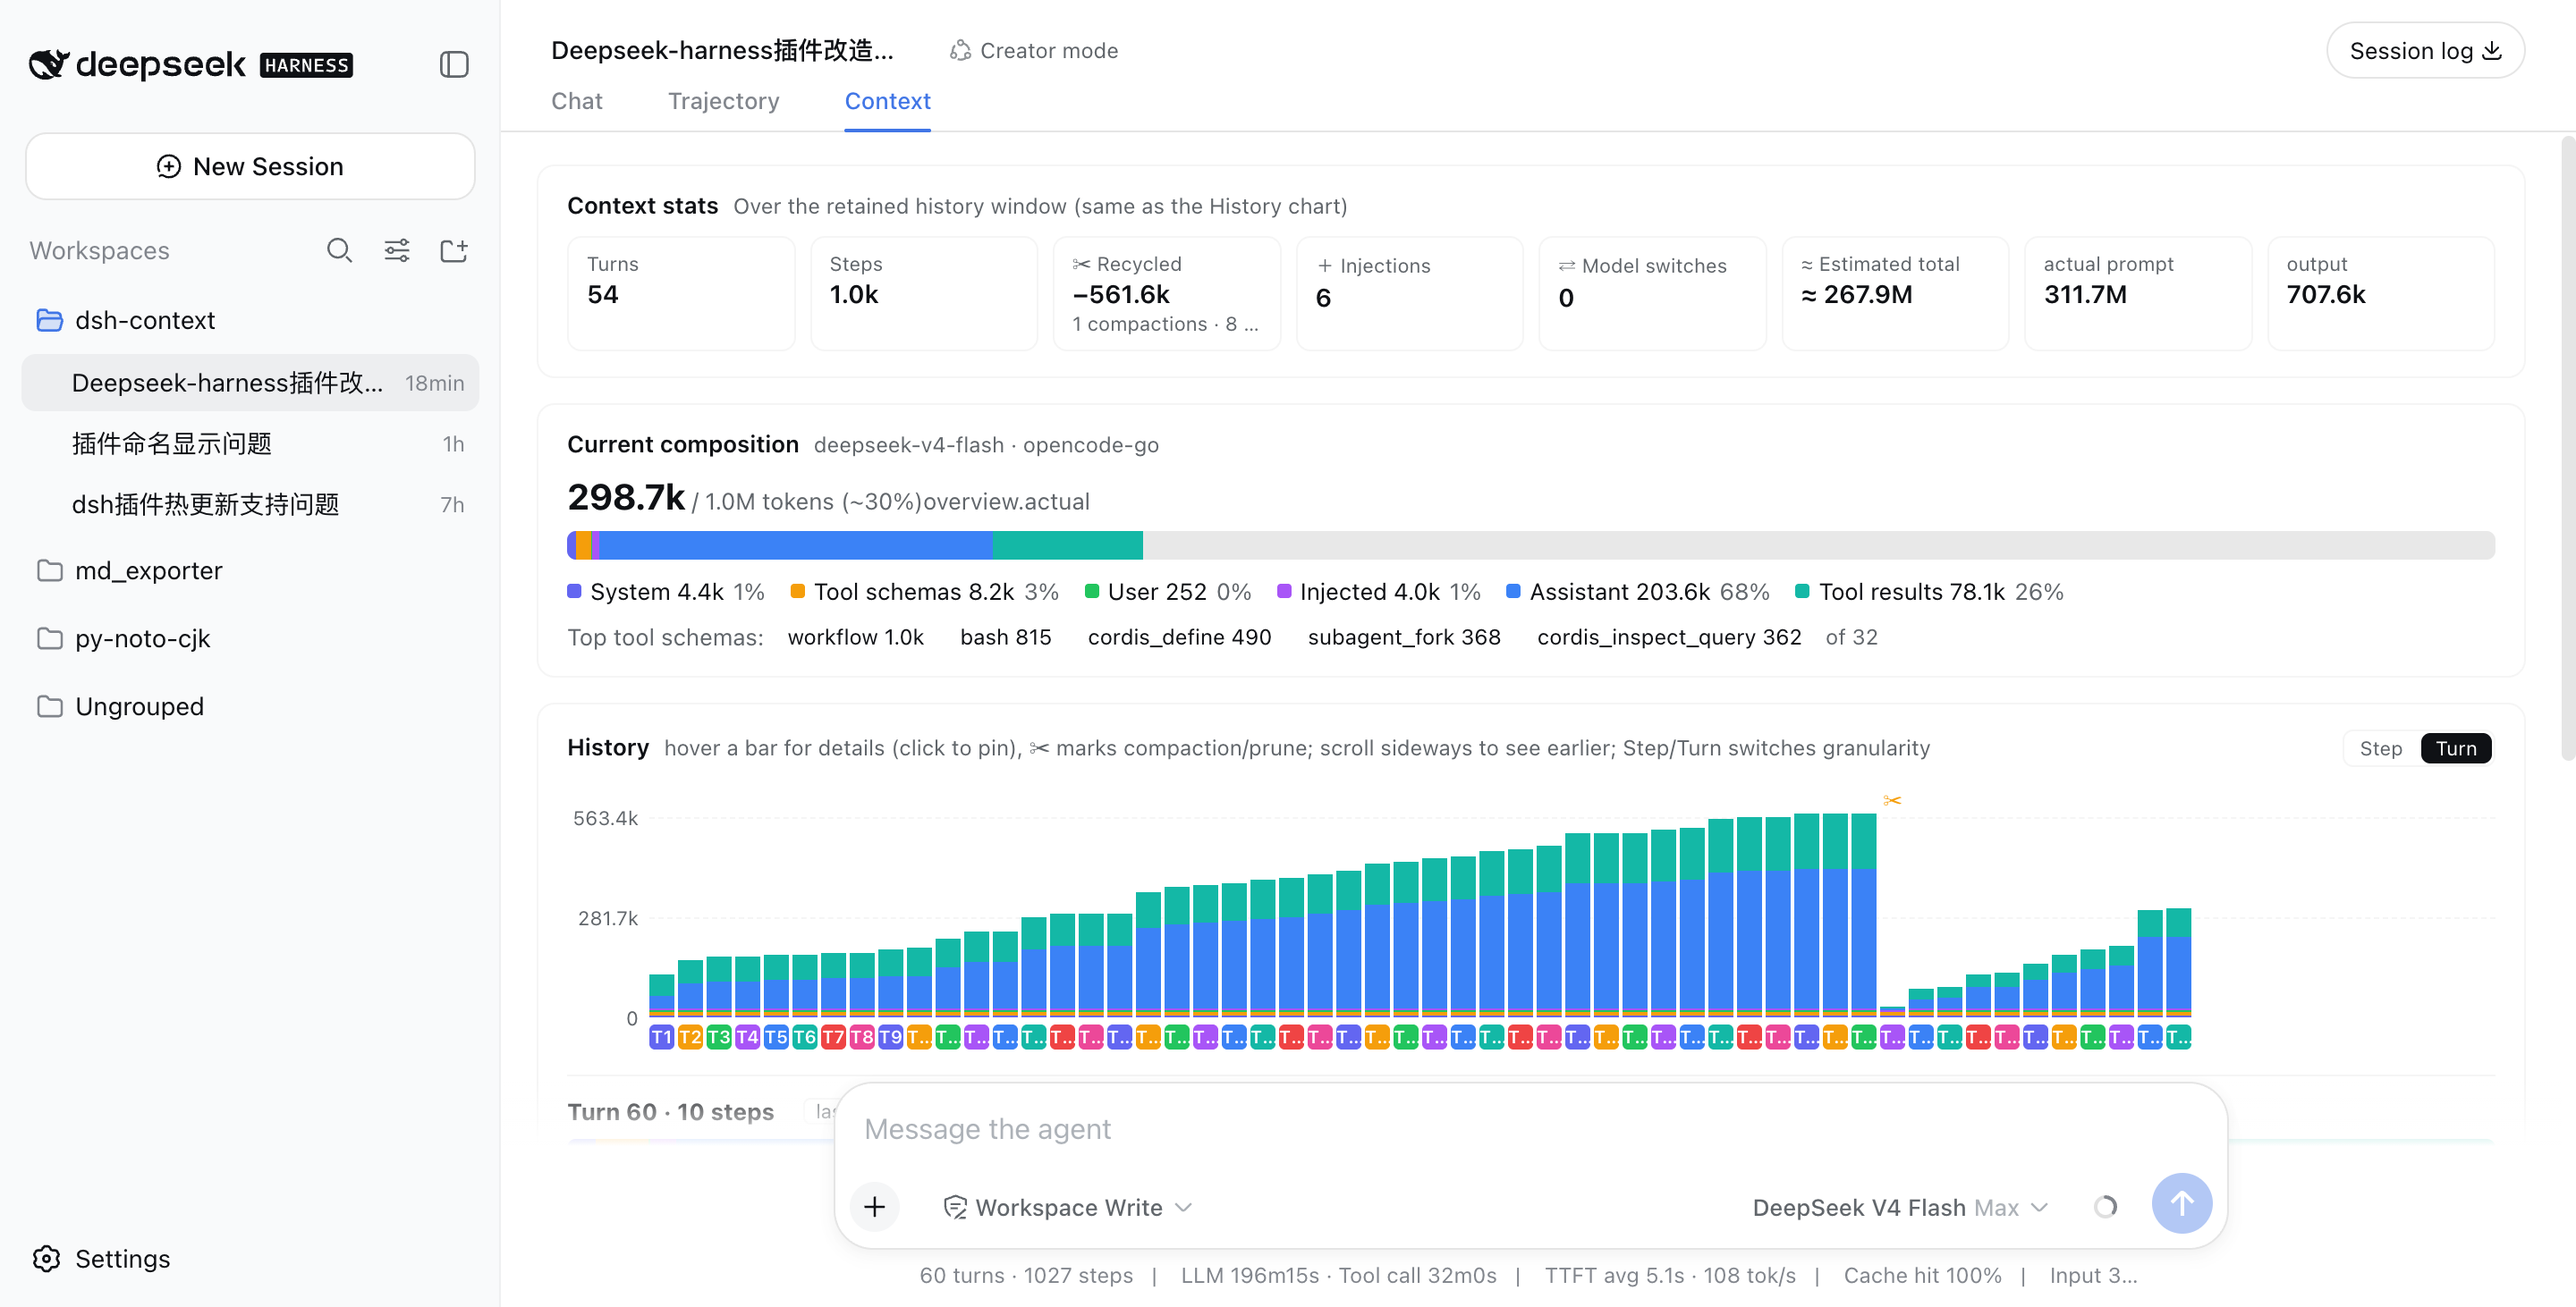
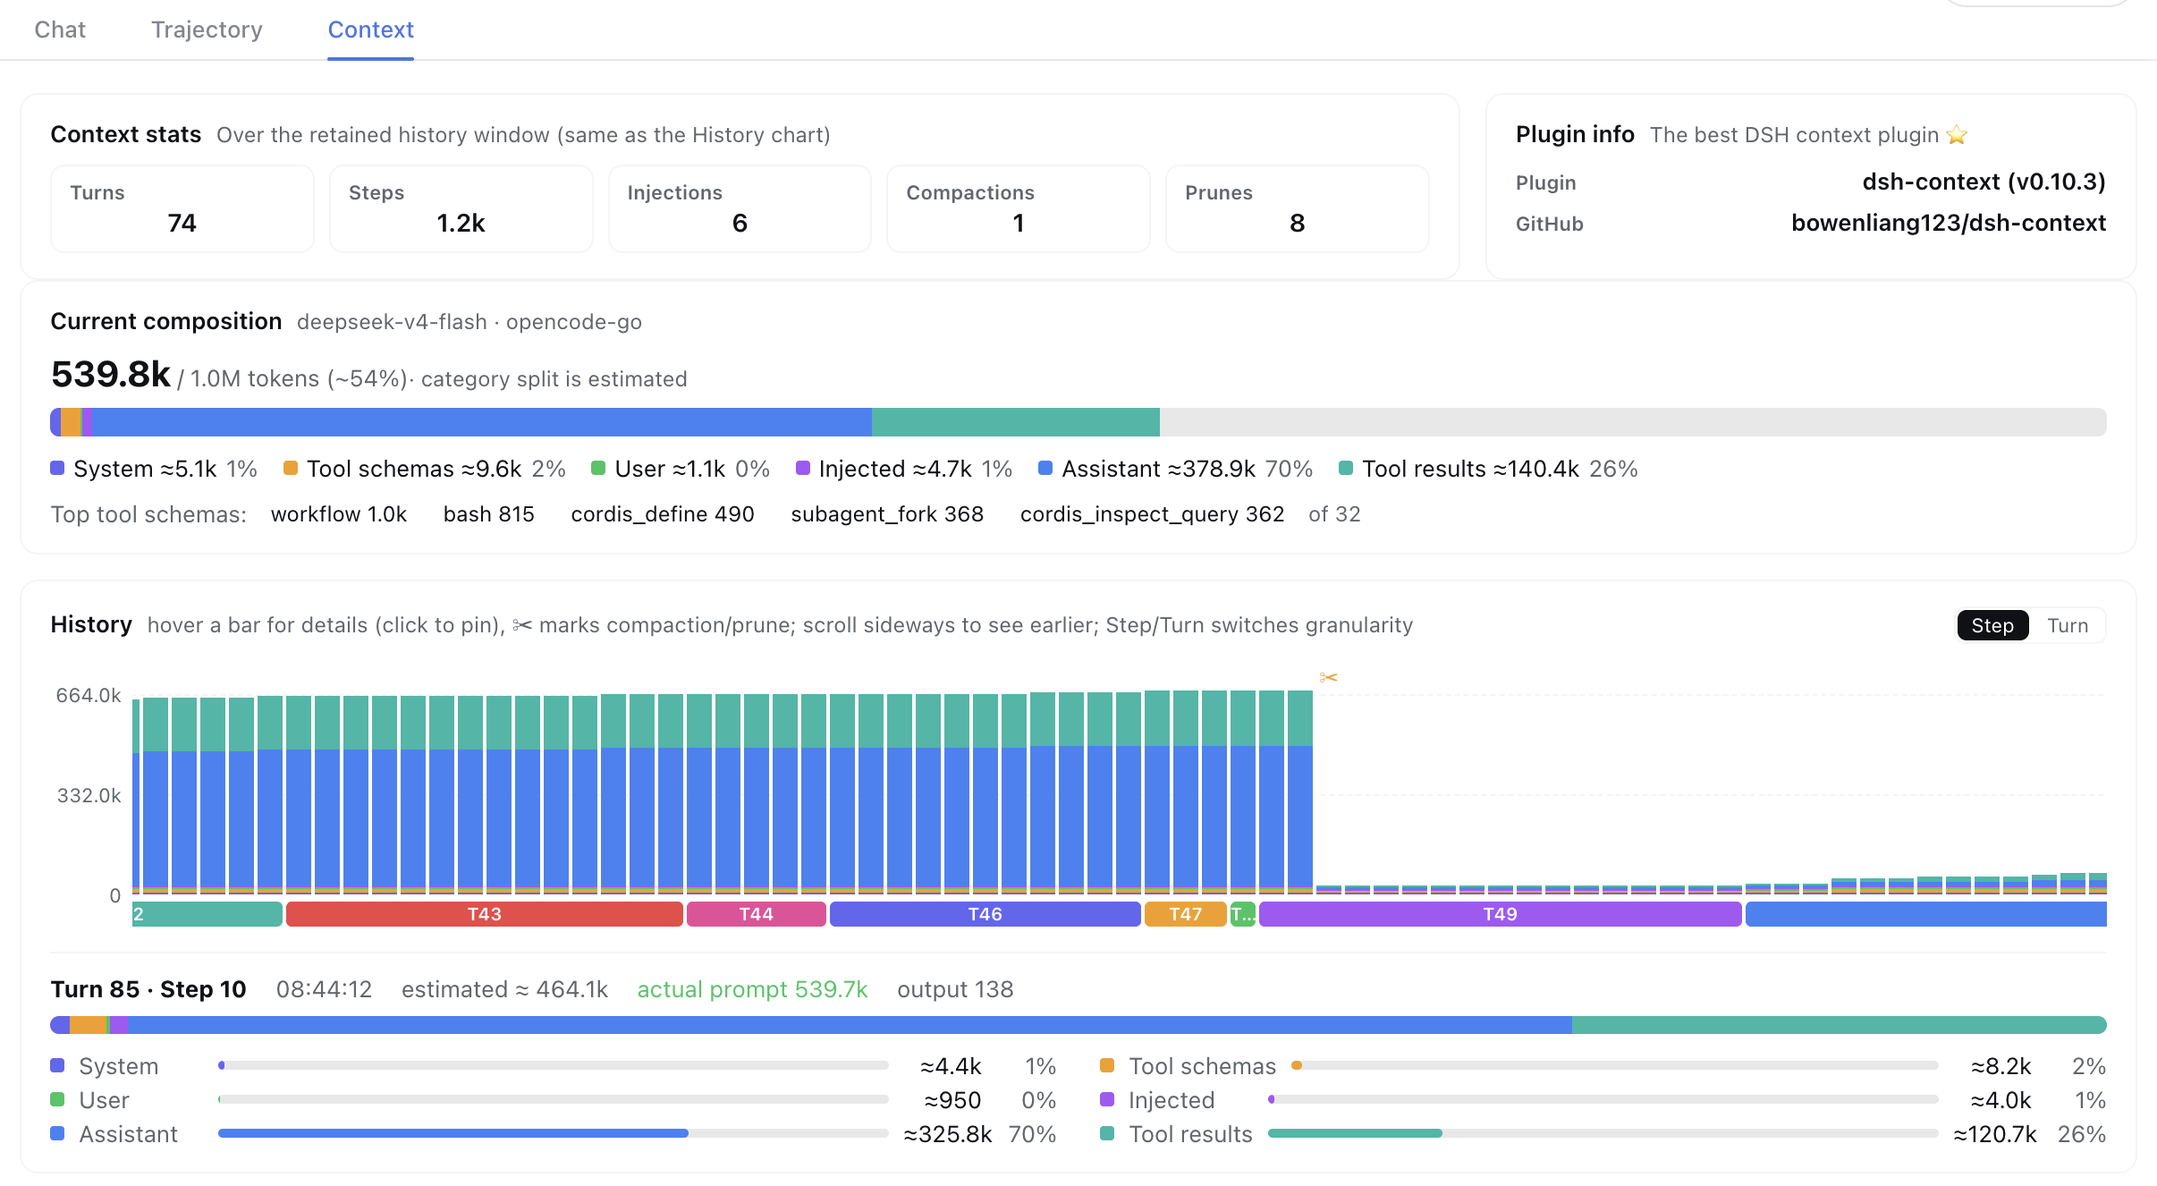
docs: update screenshots and github social preview image

diff --git a/AGENTS.md b/AGENTS.md
@@ -29,6 +29,9 @@ A DeepSeek Harness plugin for context insight, actions, and management.
 ## I18n
 - Chinese (Simplified) and English are supported for UI elements.
 
+## Docs
+- `docs/social-preview.png` (GitHub social preview) must be exactly **1280 × 640 pixels**.
+
 ## Releasing
 - Releases are cut by tagging: `git tag vX.Y.Z && gh release create vX.Y.Z`.
 - A [GitHub Actions workflow](.github/workflows/release.yml) then builds, tests, and publishes the package to npm automatically via [npm Trusted Publishing (OIDC)](https://docs.npmjs.com/trusted-publishers) — no long-lived token needed, provenance included.
